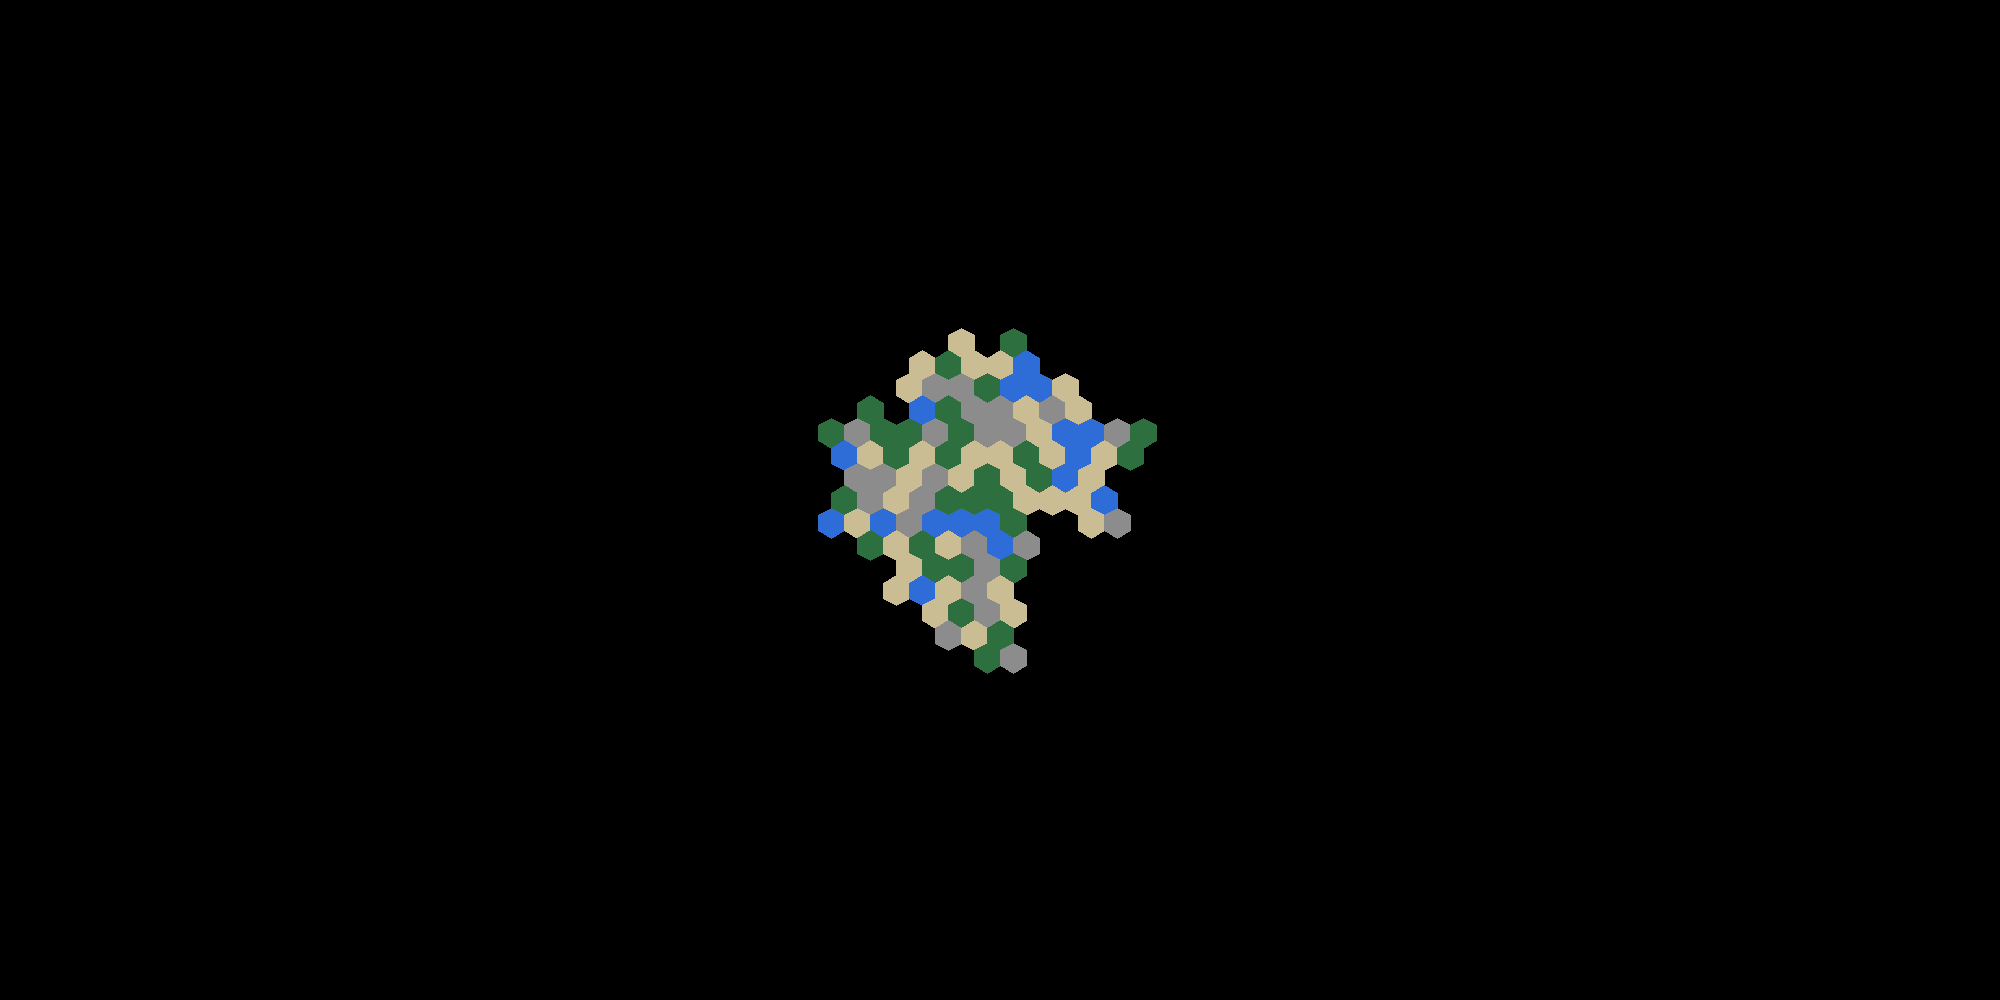
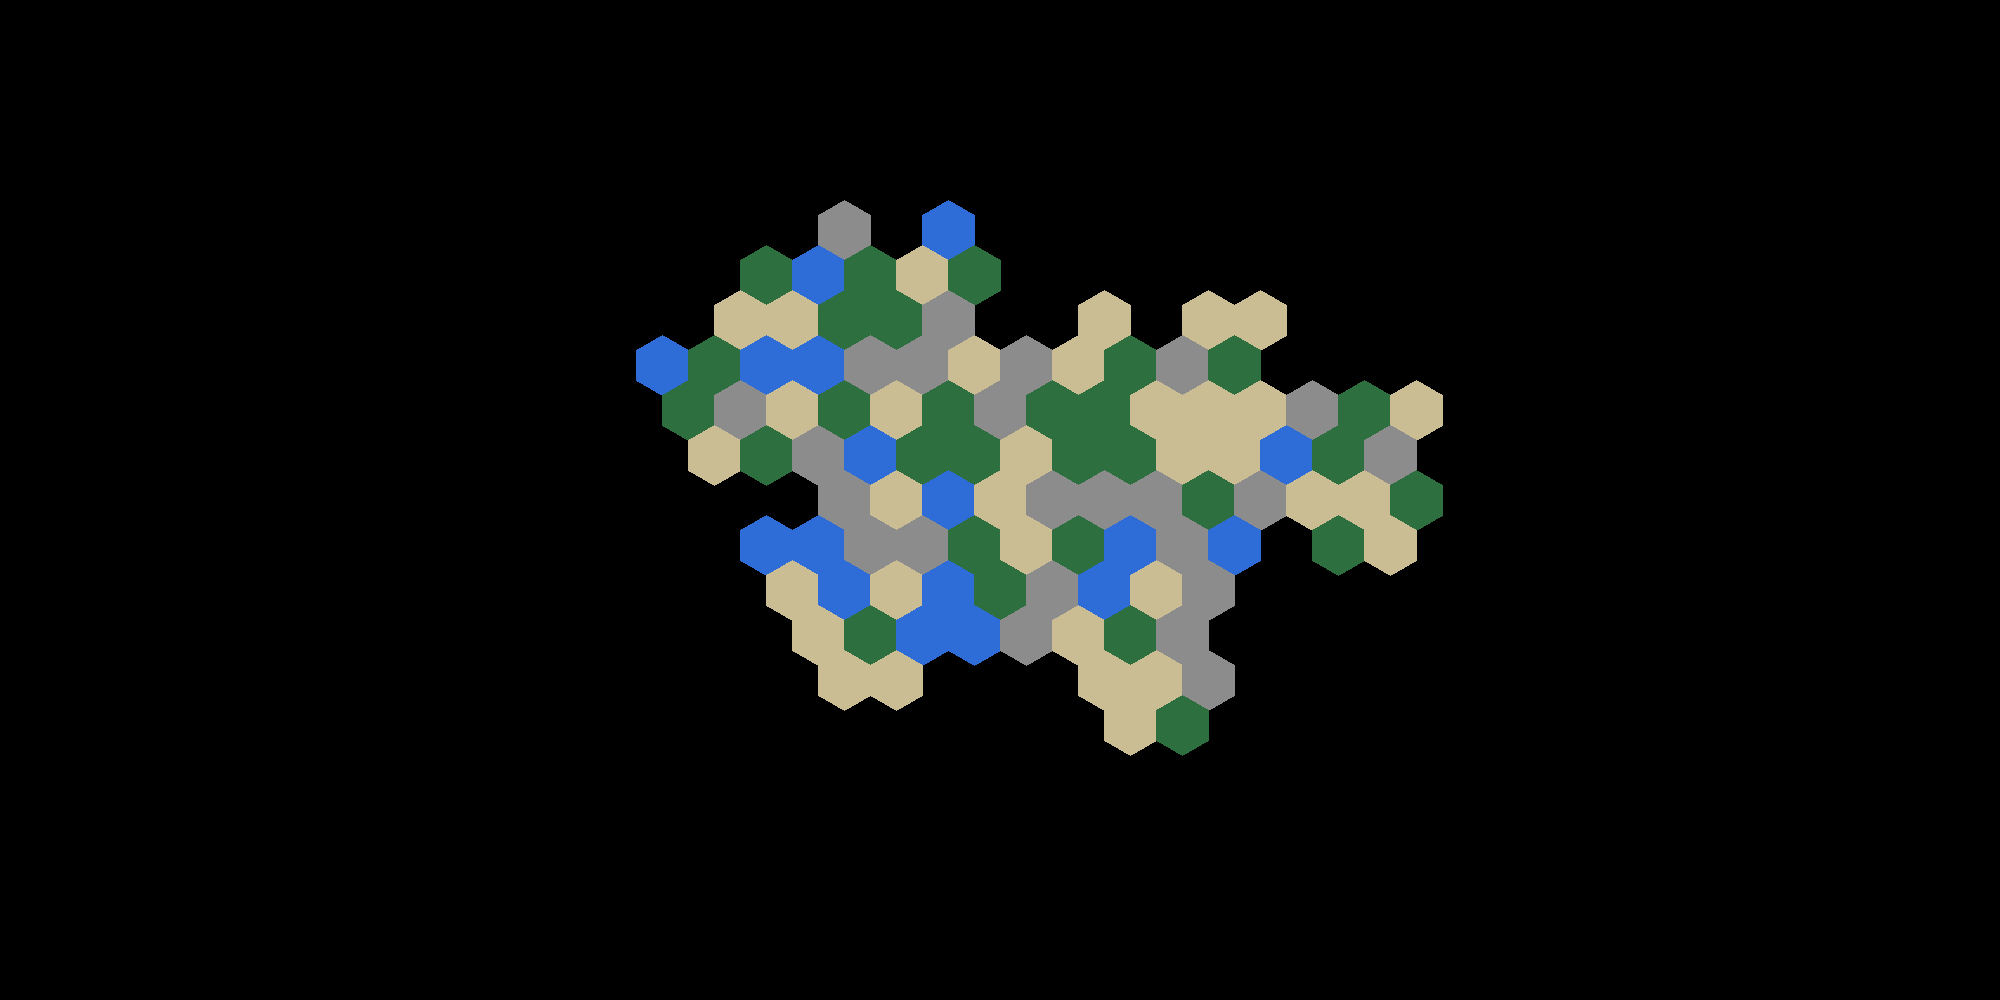
Update image generation configuration and implement edge finding in TileMap_shape

Changed region(s): [[0.31, 0.186, 0.744, 0.775]]

diff --git a/src/hexmap.rs b/src/hexmap.rs
@@ -11,11 +11,20 @@ pub const BIG_MAP_SIZE:   u8 = 104;
 
 const MIN_NEIGHBORS: u8 = 2;
 
+/// Matching for pattern `Option<T>::Some(a)` or `Option<T>::None`
+/// 
+/// `a` is ment to be "falsely" state, which can be equivalent to no state
+macro_rules! empty {
+    ($a:pat) => {
+        Some($a)|None
+    };
+}
+
 #[derive(PartialEq, Eq, Clone, Copy, Debug)]
 #[repr(u8)]
 pub enum MapSize {
-    Small = 73,
-    Big   = 104
+    Small = SMALL_MAP_SIZE,
+    Big   = BIG_MAP_SIZE
 }
 
 pub enum RawTileState {
@@ -24,6 +33,7 @@ pub enum RawTileState {
     Unknown
 }
 
+#[allow(non_camel_case_types)]
 pub struct TileMap_rawShapeGen {
     map: HexagonalMap<RawTileState>,
     size: MapSize
@@ -101,7 +111,7 @@ impl Get<Hex> for TileMap_rawShapeGen {
 }
 
 
-
+#[allow(non_camel_case_types)]
 pub struct TileMap_shape {
     map: HexagonalMap<bool>,
     size: MapSize
@@ -139,6 +149,24 @@ impl TileMap_shape {
     pub fn size_u32(&self) -> u32 {
         self.size as u32
     }
+
+    #[must_use]
+    fn find_edge_single(&self) -> Hex {
+        let mut pos = Hex::ZERO;
+        loop {
+            let new_pos = Hex::new(pos.x+1, pos.y);
+            match self.get(new_pos) {
+                Some(true) => pos = new_pos,
+                Some(false)|None => return pos
+            }
+        }
+    }
+
+    #[must_use]
+    pub fn find_edges(&self) -> Vec<Hex> {
+        todo!("`TileMap_shape::find_edges` not yet implemented")
+    }
+    
 }
 
 impl Index<Hex> for TileMap_shape {
@@ -172,7 +200,7 @@ impl DrawHexMap for TileMap_shape {
 }
 
 
-
+#[allow(non_camel_case_types)]
 pub struct TileMap_templates {
     map: HexagonalMap<Option<TileTemplate>>,
     size: MapSize
@@ -181,14 +209,13 @@ impl TileMap_templates {
 
     #[must_use]
     pub fn new<R: Rng>(rng: &mut R, from: &TileMap_shape) -> Self {
-        let temp = Self::prepare_random_tiles(rng, from.size);
-        let mut tiles = temp.iter();
+        let mut tiles = Self::prepare_random_tiles(rng, from.size);
         // println!("{}", from.iter().filter(|(_, a)| **a).count());
 
         Self { map: HexagonalMap::new(
             Hex::ZERO, 
             from.size_u32(), 
-            |h| if from[h] {Some(*tiles.next().unwrap())} else {None}), size: from.size }
+            |h| if from[h] {Some(tiles.next().unwrap())} else {None}), size: from.size }
     }
 
     #[inline(always)]
@@ -204,7 +231,7 @@ impl TileMap_templates {
     }
 
     #[must_use]
-    pub fn prepare_random_tiles<R: Rng>(rng: &mut R, map_size: MapSize) -> Vec<TileTemplate> {
+    pub fn prepare_random_tiles<R: Rng>(rng: &mut R, map_size: MapSize) -> impl Iterator<Item = TileTemplate> {
         let mut out = Vec::new();
         match map_size {
             MapSize::Small => {
@@ -219,7 +246,7 @@ impl TileMap_templates {
             }
         }
         out.shuffle(rng);
-        out
+        out.into_iter()
     }
 }
 
@@ -255,8 +282,7 @@ impl DrawHexMap for TileMap_templates {
 }
 
 
-
-
+#[allow(non_camel_case_types)]
 pub struct TileMap_props {
     map: HexagonalMap<Option<Prop>>,
     size: MapSize

diff --git a/src/main.rs b/src/main.rs
@@ -13,7 +13,7 @@ use crate::drawing::{DrawHexMap, ImageConfig};
 fn main() -> Result<(), Box<dyn Error>>{
     let mut rng = rng();
     let mut img: ImageBuffer<Rgb<u8>, Vec<u8>> = ImageBuffer::new(2000, 1000);
-    let image_config = ImageConfig { height: img.height(), width: img.width(), hex_radius: 15.0 };
+    let image_config = ImageConfig { height: img.height(), width: img.width(), hex_radius: 30.0 };
     
     loop {
         let raw = TileMap_rawShapeGen::new(MapSize::Big, &mut rng);
@@ -21,10 +21,12 @@ fn main() -> Result<(), Box<dyn Error>>{
         let templates = TileMap_templates::new(&mut rng, &shape);
 
         if shape.has_no_holes() {
+            // println!("{:#?}", shape.find_edges());
             templates.draw(&mut img, image_config);
             img.save(r"C:\Users\piotr\Documents\code_projects\rust\tucan-v2\image.png")?;
             break;
         }
     }
+
     Ok(())
 }
